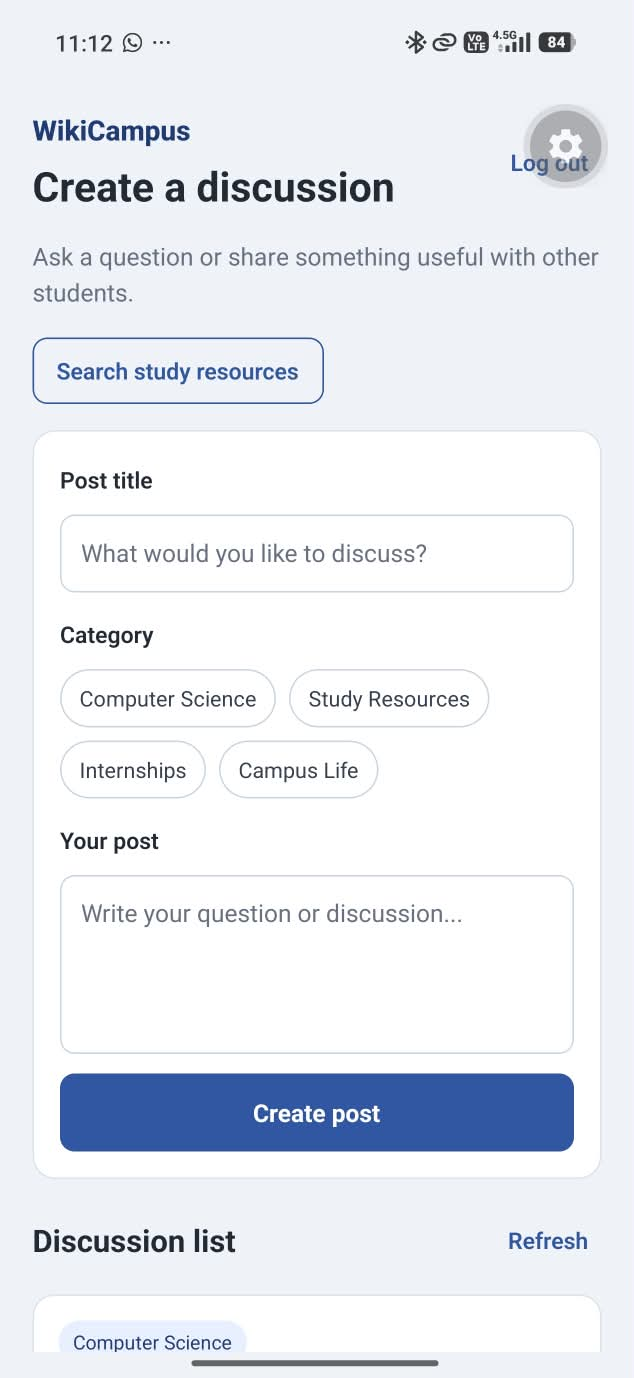
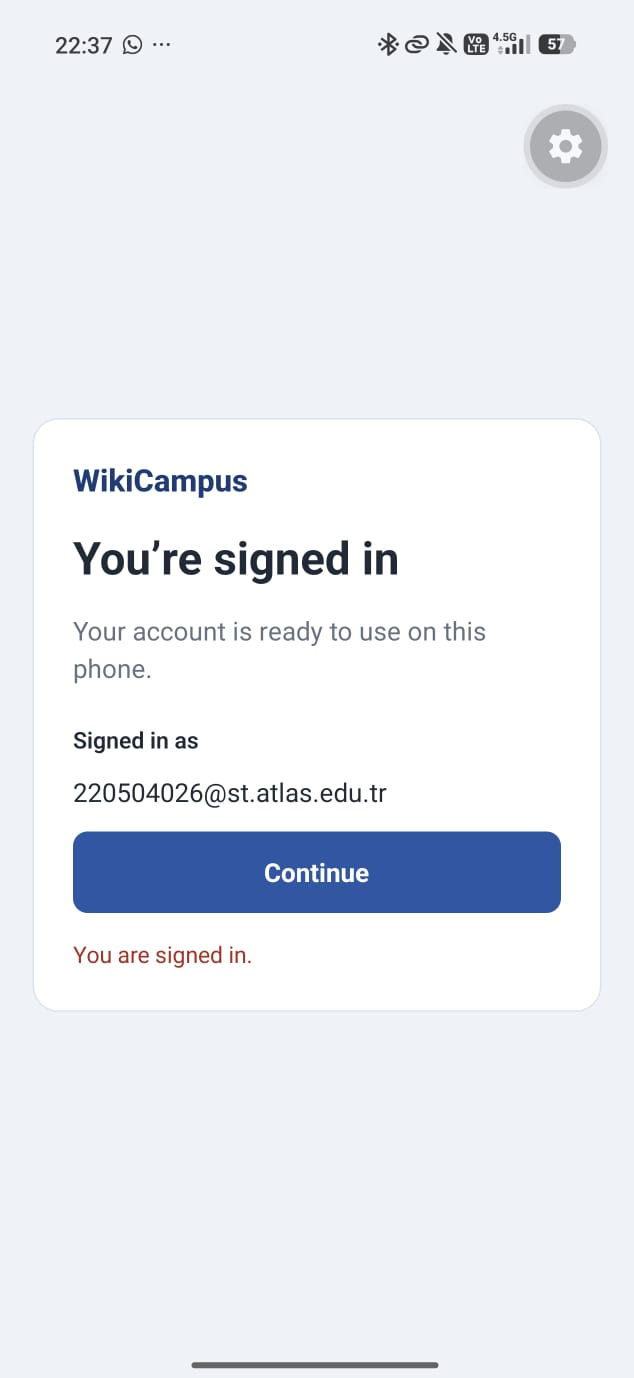
week07: Huawei application evidence

diff --git a/week07/ai_log_07.md b/week07/ai_log_07.md
@@ -1,66 +1,19 @@
 # Week 7 — AI log
 
-<!--
-A HUMAN WRITES THE AI LOG, WITH NO EXCEPTIONS.
-AI LOG'U İNSAN YAZAR, İSTİSNASIZ.
-
-Write this file yourself, in your own words. The Evidence block and the bold quotes are the only
-exceptions. Do not use an assistant to write the log, to "improve" it, or to correct its language. A log
-that an assistant wrote earns 0. Your English or Turkish is not graded. A person reads the log.
-
-Bu dosyayı kendiniz, kendi cümlelerinizle yazın. Evidence bloğu ve kalın alıntılar tek istisnadır.
-Asistanı günlüğü yazmak, "düzeltmek" ya da dilini düzeltmek için kullanmayın. Asistanın yazdığı bir
-günlük 0 puan alır. İngilizceniz ya da Türkçeniz notlanmaz. Günlüğü bir insan okur.
-
-The log has two kinds of words, as in Weeks 4 to 6. Your own words are plain text. The words of the
-assistant are **bold**. Use bold only where the words must come from the assistant: one line of its diff,
-or one sentence of its answer, that you point at. Each bold phrase also appears in the Evidence block,
-letter for letter. Do not use bold for anything else.
-
-Günlükte, 4–6. haftalardaki gibi, iki tür söz vardır. Sizin sözleriniz düz yazıdır. Asistanın sözleri
-**kalındır**. Kalın yazıyı yalnızca sözlerin asistandan gelmesi gereken yerde kullanın: işaret ettiğiniz,
-diff'inden tek bir satır ya da cevabından tek bir cümle. Her kalın ifade, harfi harfine aynı biçimde,
-Evidence bloğunda da bulunur. Kalın yazıyı başka hiçbir şey için kullanmayın.
-
-This week's task is small diffs (AI_Doc5 §6) on your mobile client. ASSIGNMENT_07 §15 gives the steps.
-1. Choose ONE change to your mobile client. Here are three examples. A screen shows the 409 message of
-   the server. The app sends the user back to the login after a 401. The app keeps the address of the
-   server in one constant.
-2. Give the assistant the file, and ask for exactly this change and nothing else.
-3. Before you accept anything, read ALL of the diff (git diff). Read also the lines that you did not
-   ask for.
-4. Keep the part that you asked for. Refuse every other change, even a good one.
-5. Commit the accepted change on its own, with a message that names it. Write its commit id below.
-   The first 7 characters of the id are enough.
-6. Run the screen on the phone, and show that the change works.
-
-A WEAK log says: "I asked the assistant to improve my booking screen. The new code was better, so I
-accepted it."
-A STRONG log says: "I asked for one change in book_screen.dart: after a 401, go back to the login screen. The diff
-         did that, but it also changed **const server = 'http://192.168.1.40:8000';** in api.dart, an
-         address I did not ask for, and it renamed my variable message to statusText. I kept only the
-         401 part and put api.dart back with git restore. Commit 4e1a9c2 changes six lines of
-         book_screen.dart and nothing else. On the emulator I restarted the server, so my token was no
-         longer valid, and pressed Book: the app went back to the login screen."
-
-Delete this comment when you are done.
--->
-
 ## The change I asked for
 
 Codex. I asked it to build the mobile app and explain to me how to export with expo go.
 
 ## The change I received
 
-we mainly worked on the mobile folder and week07 folder
-
+codex generated the mobile app structure under the `mobile` folder, adding `discussions.tsx` and updating `index.tsx`.
 ## What I refused, and why
 
 I refused to build a real gmail aauthorization because it adds to much bottleneck for this project. we are fine with mock auth currently.
 
 ## The commit, and the phone
 
-[Write the commit id (its first 7 characters) and its message. Write how you showed on the phone that the change works.]
+I committed with ID `40c9fe4`. I connected the same wifi adress with my laptop amd opened my app using expogo.
 
 ## Evidence — the exchange and the diff
 

diff --git a/PROPOSAL.md b/PROPOSAL.md
@@ -67,10 +67,11 @@ This is a student project, and I do not plan to charge students. A university co
 ### 12. Technical risks and how you will manage them (about 600 characters)
 1. Email delivery may take longer to set up than the login screens. I will test the email service early and keep a development option for the prototype.
 2. Chat and file uploads can grow beyond a short course project. I will keep the first version to text messages and resource links, with no large file uploads.
-3. I chose Samsung Galaxy Store because Samsung says there is no sign-up or yearly publishing fee. I still need to apply for commercial seller status before I can distribute the app. I have not applied yet, so I will check the requirements early and keep the web client ready for demos.
+3. I chose Huawei AppGallery as the store for the first release. I have not registered as a Huawei developer yet, so I will complete the registration and verify the requirements before distribution. I will keep the web client ready for demos.
 
 ## Change log
 - 2026-10-24 — REQ-009 and REQ-010: added course groups and group chat to the scope, requirements, and design. Updated the proposal to keep the first release small.
 - 2026-10-24 — REQ-009: chose Samsung Galaxy Store because it has no sign-up or annual publishing fee.
 - 2026-10-27 — In week 5 api.md I added new API feature to match the week 6 assignment. | GET | /auth/me | — | 200 {"email":"student@example.com"} | 401 no or invalid token | REQ-001 |
 - 2026-10-27 — New API future. Post-list API row.
+- 2026-11-7 — aplied for Huwai AppGalery.
